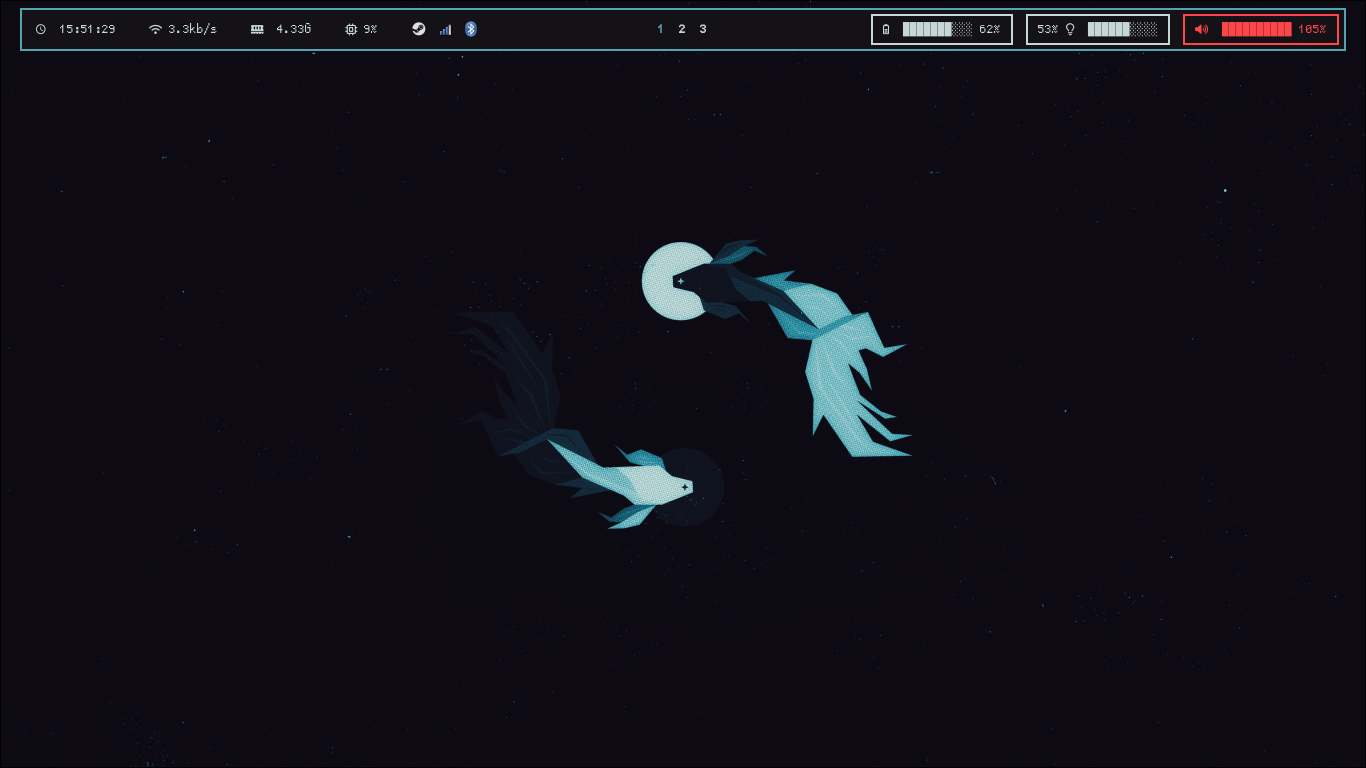
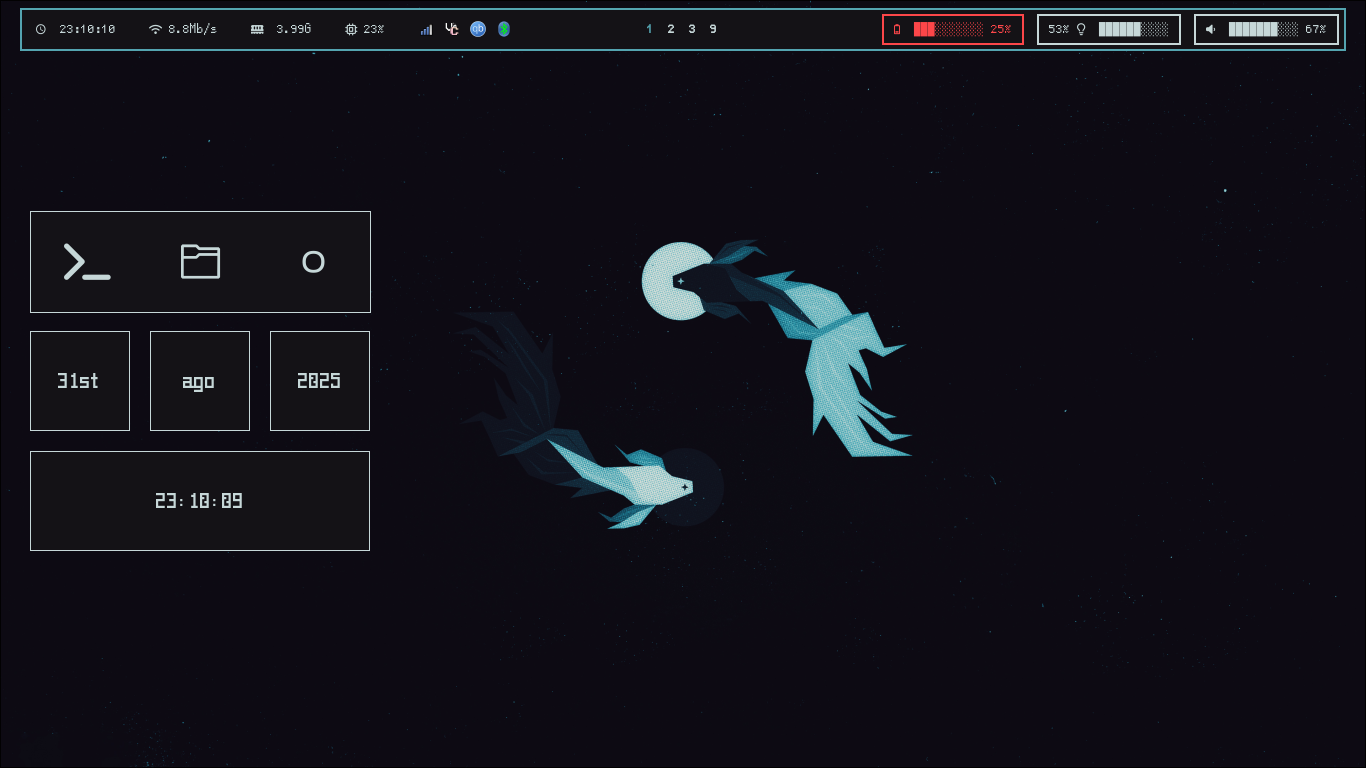
Added eww and edited README.md

diff --git a/config/eww/eww.scss b/config/eww/eww.scss
@@ -1,0 +1,88 @@
+* {
+  all: unset;
+  background: transparent;
+  font-family: "scientifica";
+}
+
+window {
+  background: #141216;
+}
+
+.container {
+  background-color: #141216;
+  border-width: 1px;
+  border-style: solid;
+  border-color: #c6d7d8;
+  color: #c6d7d8;
+}
+.userinfo-parent {
+  background-color: #141217;
+  color: #c6d7d8;
+
+  border-width: 1px;
+  border-style: solid;
+  border-color: #c6d7d8;
+}
+.userinfo-child {
+  color: #c6d7d8;
+}
+.label {
+  font-size: 24px;
+  font-weight: bold;
+}
+
+.button-label {
+  font-size: 24px;
+  font-weight: bold;
+}
+
+.completelytrans {
+  background: none;
+}
+
+.button {
+  margin: 10px;
+}
+.button:hover {
+  background-color: #54a4b0;
+  color: #0D0A13;
+  transition-duration: 150ms;
+}
+.button:active {
+  background-color: #54A4b0;
+  color: #0D0A13;
+  transition-duration: 150ms;
+}
+
+.poweroff-button {
+  margin: 10px;
+}
+.poweroff-button:hover {
+  background-color: #fc4649;
+  color: #141216;
+  transition-duration: 150ms;
+}
+.poweroff-button:active {
+  background-color: #862526;
+  color: #141216;
+  transition-duration: 150ms;
+}
+
+.suspend-button {
+  margin: 10px;
+}
+.suspend-button:hover {
+  background-color: #7b91fc;
+  color: #141216;
+  transition-duration: 150ms;
+}
+.suspend-button:active {
+  background-color: #515ea1;
+  color: #141216;
+  transition-duration: 150ms;
+}
+
+.icon-label {
+  font-size: 45px;
+  font-weight: normal;
+}

diff --git a/README.md b/README.md
@@ -29,3 +29,7 @@ TODO:
     - !Add a .gitignore.
     - !Edit hyprlock config file.
     - !Add fingerprint lock-screen script.
+
+## Extra credits
+
+- [Diinki retrofuture rice (eww)](https://github.com/diinki/diinki-retrofuture/)
